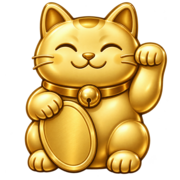
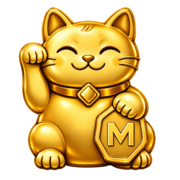
Personalize MIDAS golden cat and switch raised paw

diff --git a/components/midas-cat-icon.tsx b/components/midas-cat-icon.tsx
@@ -18,7 +18,7 @@ export function MidasCatIcon({ className = "", priority = false, size = 44 }: Mi
         fill
         priority={priority}
         sizes={`${size}px`}
-        src="/midas-cat.webp"
+        src="/midas-cat-v3.webp"
       />
     </span>
   );
